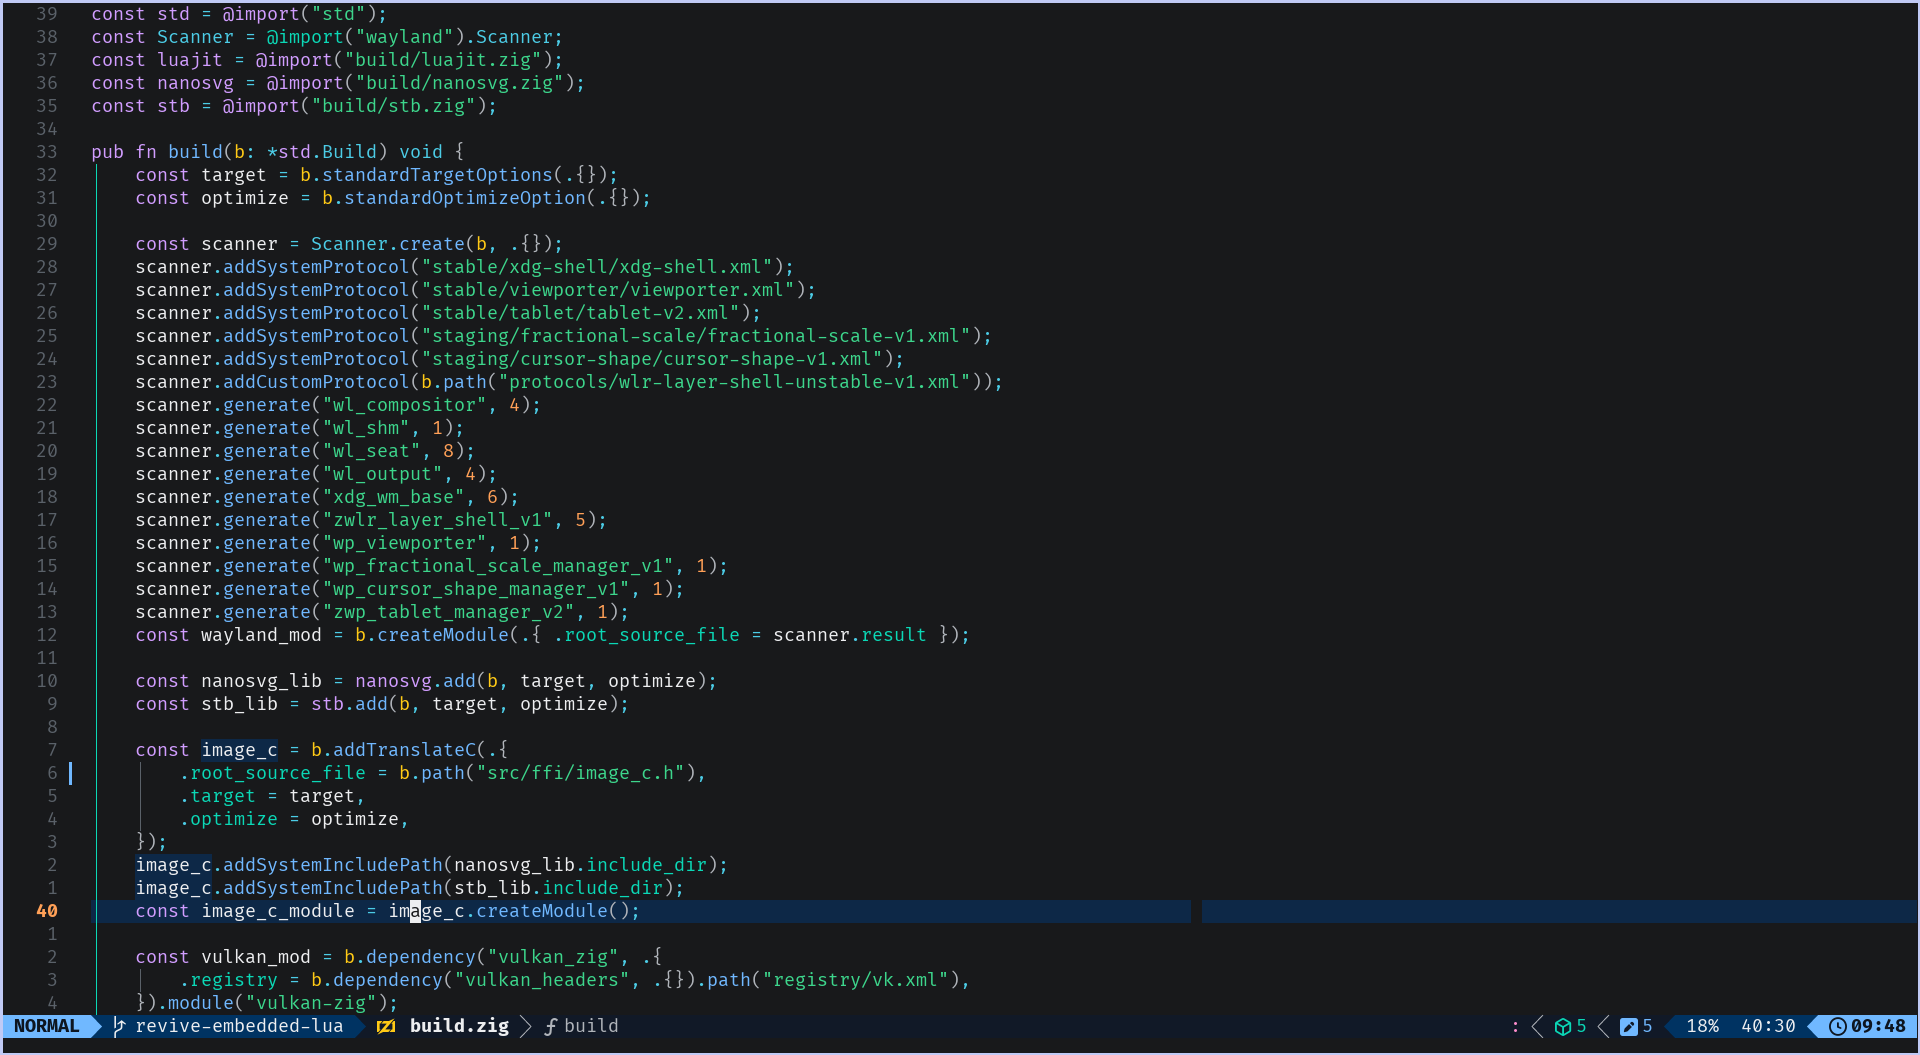
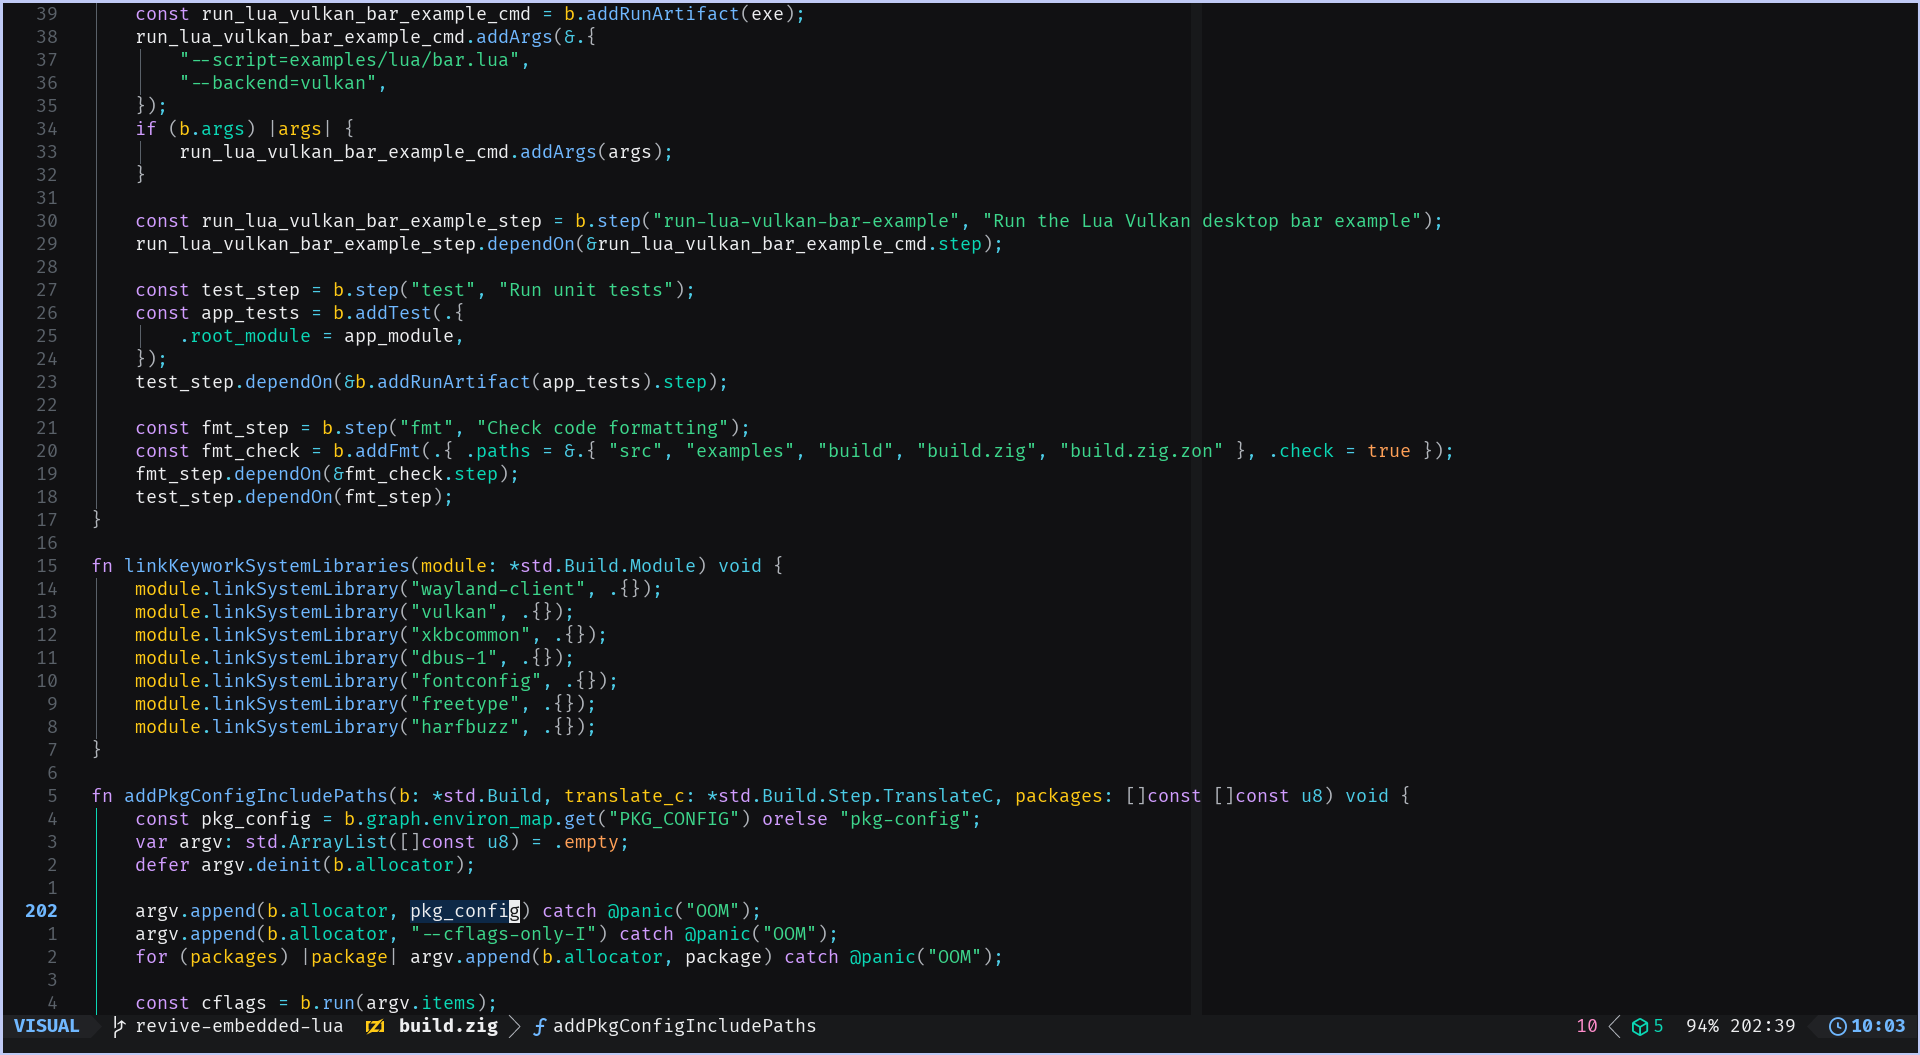
theme: use neutral slate UI surfaces
Move editor chrome and plugin UI surfaces from the Blue scale to Slate so the theme keeps Blue as an interactive accent instead of a general background color.

Update core, plugin, and lualine highlights to preserve semantic colors for modes, syntax, diagnostics, Git, search, tests, and jump targets while making generic UI elements more restrained.

Document the revised palette roles and extend the headless checks to ensure surfaces stay neutral without neutralizing syntax colors.

diff --git a/README.md b/README.md
@@ -2,7 +2,7 @@
 
 A dark and light Neovim colorscheme with Tokyo Night's colorful, low-distraction approach and palettes made entirely from [Radix Colors](https://www.radix-ui.com/colors).
 
-Every shipped hex value is copied directly from an alpha-free light or dark scale in `@radix-ui/colors` 3.0.0. The theme does not blend, brighten, interpolate, or invent colors. Blue steps 1–4 provide the Tokyo Night-like surfaces; Slate provides neutral text; Radix's step-11 accent colors provide syntax colors.
+Every shipped hex value is copied directly from an alpha-free light or dark scale in `@radix-ui/colors` 3.0.0. The theme does not blend, brighten, interpolate, or invent colors. Slate provides restrained editor chrome, Blue marks active UI, and Radix's step-11 accent colors provide syntax colors.
 
 ## Features
 
@@ -79,18 +79,25 @@ require("lualine").setup({ options = { theme = "radix" } })
 ```
 
 The `radix` lualine theme follows the currently loaded variant. Explicit `radix-dark` and `radix-light` lualine themes are also available.
+Its active mode segment uses a solid mode color: blue for normal, green for insert, purple for visual, red for replace, amber for command, and teal for terminal.
 
 ## Radix scale choices
 
 | Role | Radix token in each variant |
 | --- | --- |
-| Main background | `blue1` |
-| Subtle/popup background | `blue2` |
-| Highlight/selection surfaces | `blue3`–`blue4` |
+| Main background | `slate1` |
+| Subtle/popup background | `slate2` |
+| Hovered/cursor-line surfaces | `slate3` |
+| Active selection | `blue3` |
 | Main text | `slate12` |
 | Muted text/comments | `slate8`–`slate11` |
 | Syntax accents | Step 11 of Blue, Cyan, Teal, Green, Amber, Orange, Red, Pink, Purple, and Violet |
 | Diff/diagnostic surfaces | Steps 2–3 of the corresponding semantic scale |
+
+The UI is intentionally neutral-first: Slate is used for surfaces, borders,
+completion kinds, and general chrome; Blue is the sole interactive accent.
+Other hues are reserved for syntax or meaningful states such as diagnostics,
+Git changes, tests, searches, and jump targets.
 
 ## Development
 
